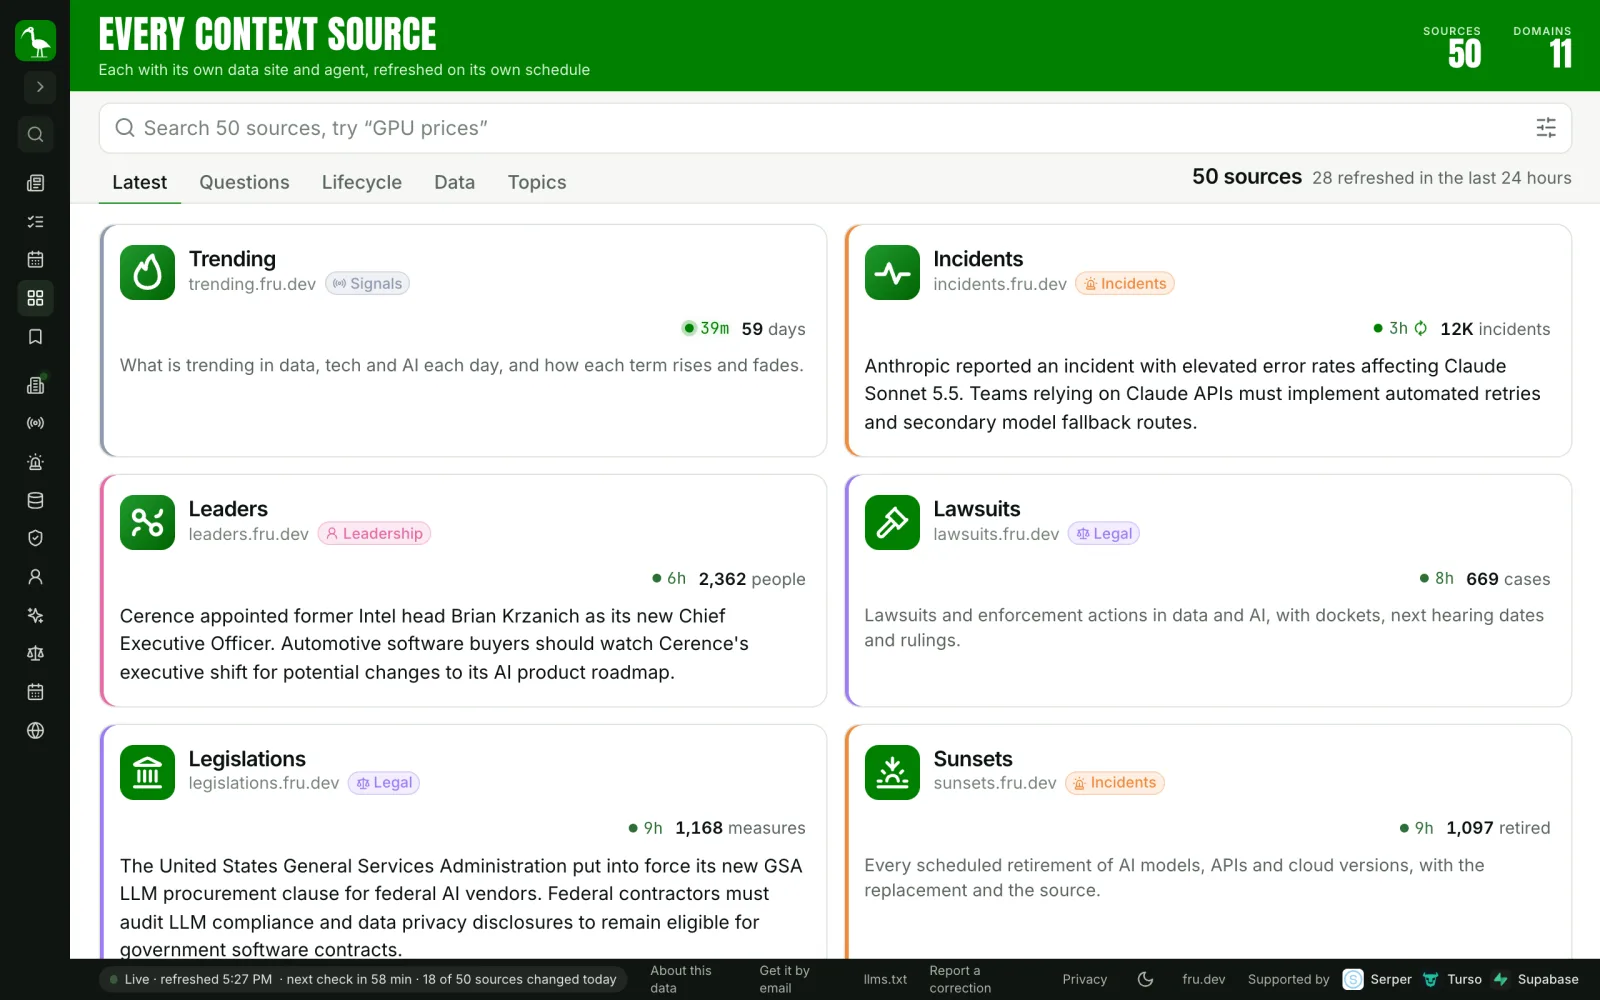
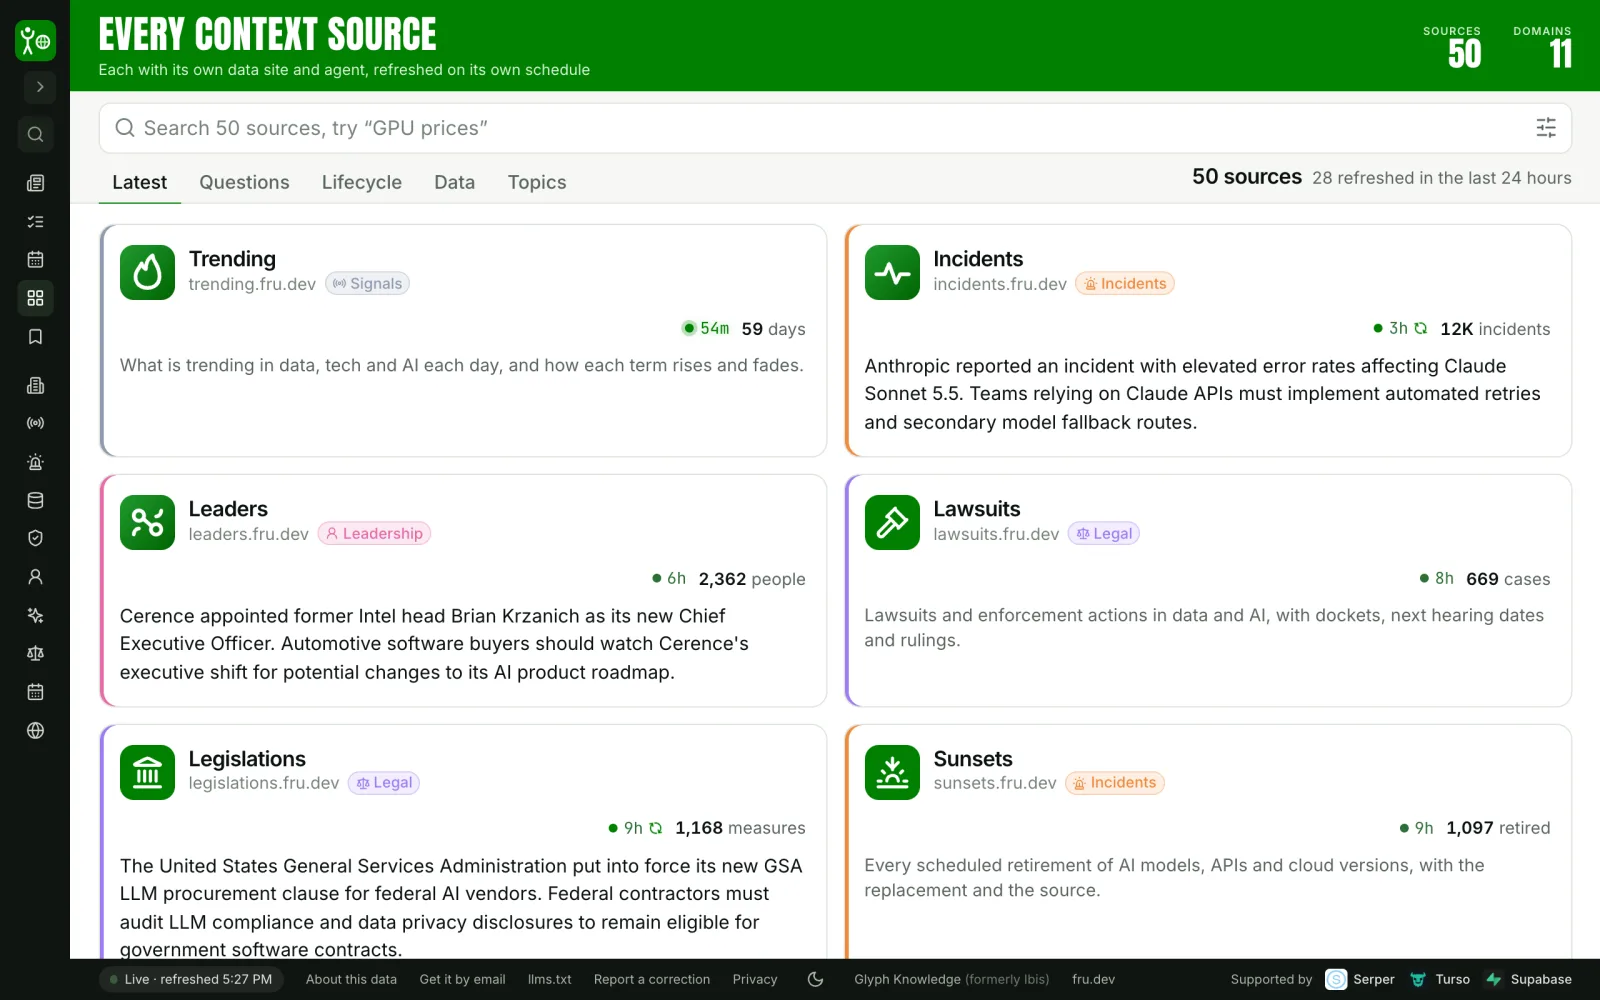
glyph.fru.dev/knowledge: screenshots of context.fru.dev as Glyph Knowledge; Rig shows v0.9.1
Claude-Session: https://claude.ai/code/session_012askAJo29fpX9HucGUhMSa

diff --git a/docs/rig/index.html b/docs/rig/index.html
@@ -70,7 +70,7 @@
 <main>
   <div class="left">
     <div class="top">
-      <a class="brand" href="/rig"><img class="icon" src="/family/rig-tile.svg" width="72" height="72" alt=""><div><b>Glyph Rig<small class="ver" data-version="fru-dev3/glyph" title="Latest release">v0.9.0</small></b><span>Where your agents run <i>formerly Glyph Code</i></span></div></a>
+      <a class="brand" href="/rig"><img class="icon" src="/family/rig-tile.svg" width="72" height="72" alt=""><div><b>Glyph Rig<small class="ver" data-version="fru-dev3/glyph" title="Latest release">v0.9.1</small></b><span>Where your agents run <i>formerly Glyph Code</i></span></div></a>
       <h1 data-lines='["Named.","Connected.","Managed."]'>Every harness. <em><span id="said">Named.</span><i class="caret" aria-hidden="true"></i></em></h1>
     </div>
     <div class="alt" aria-label="Claude, Codex, Gemini and Cursor, each session with one identity: Glyph Rig">
